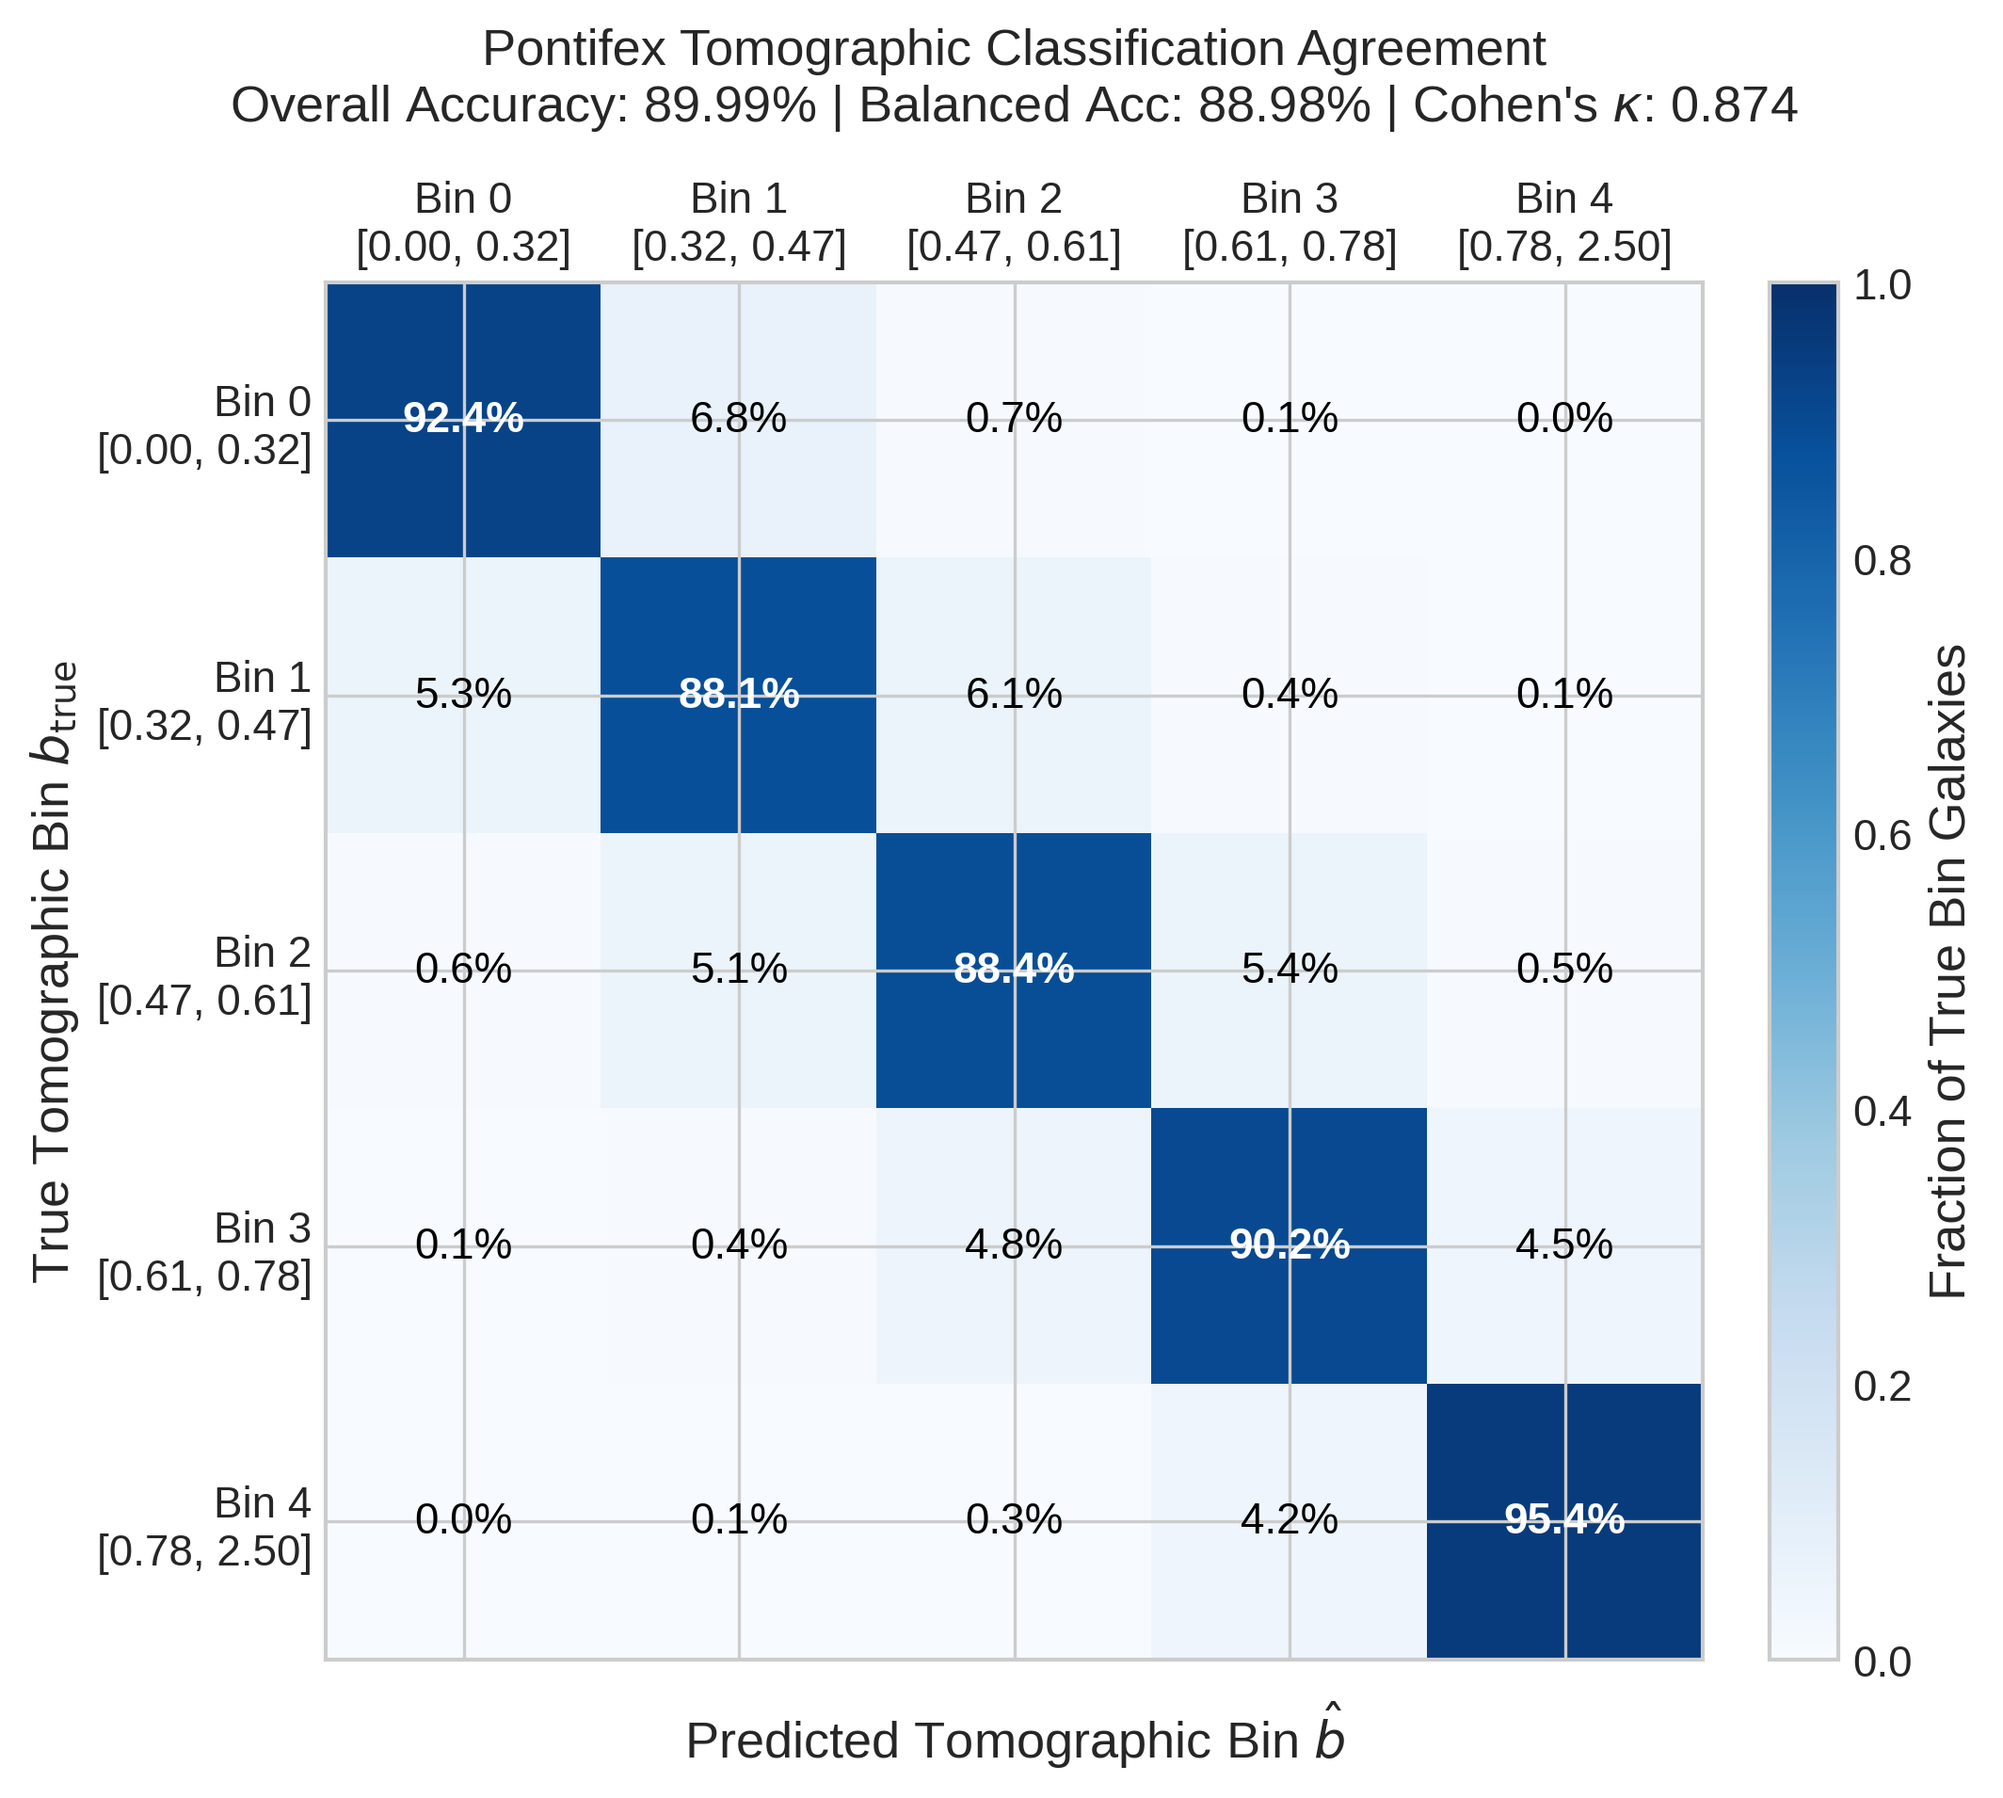
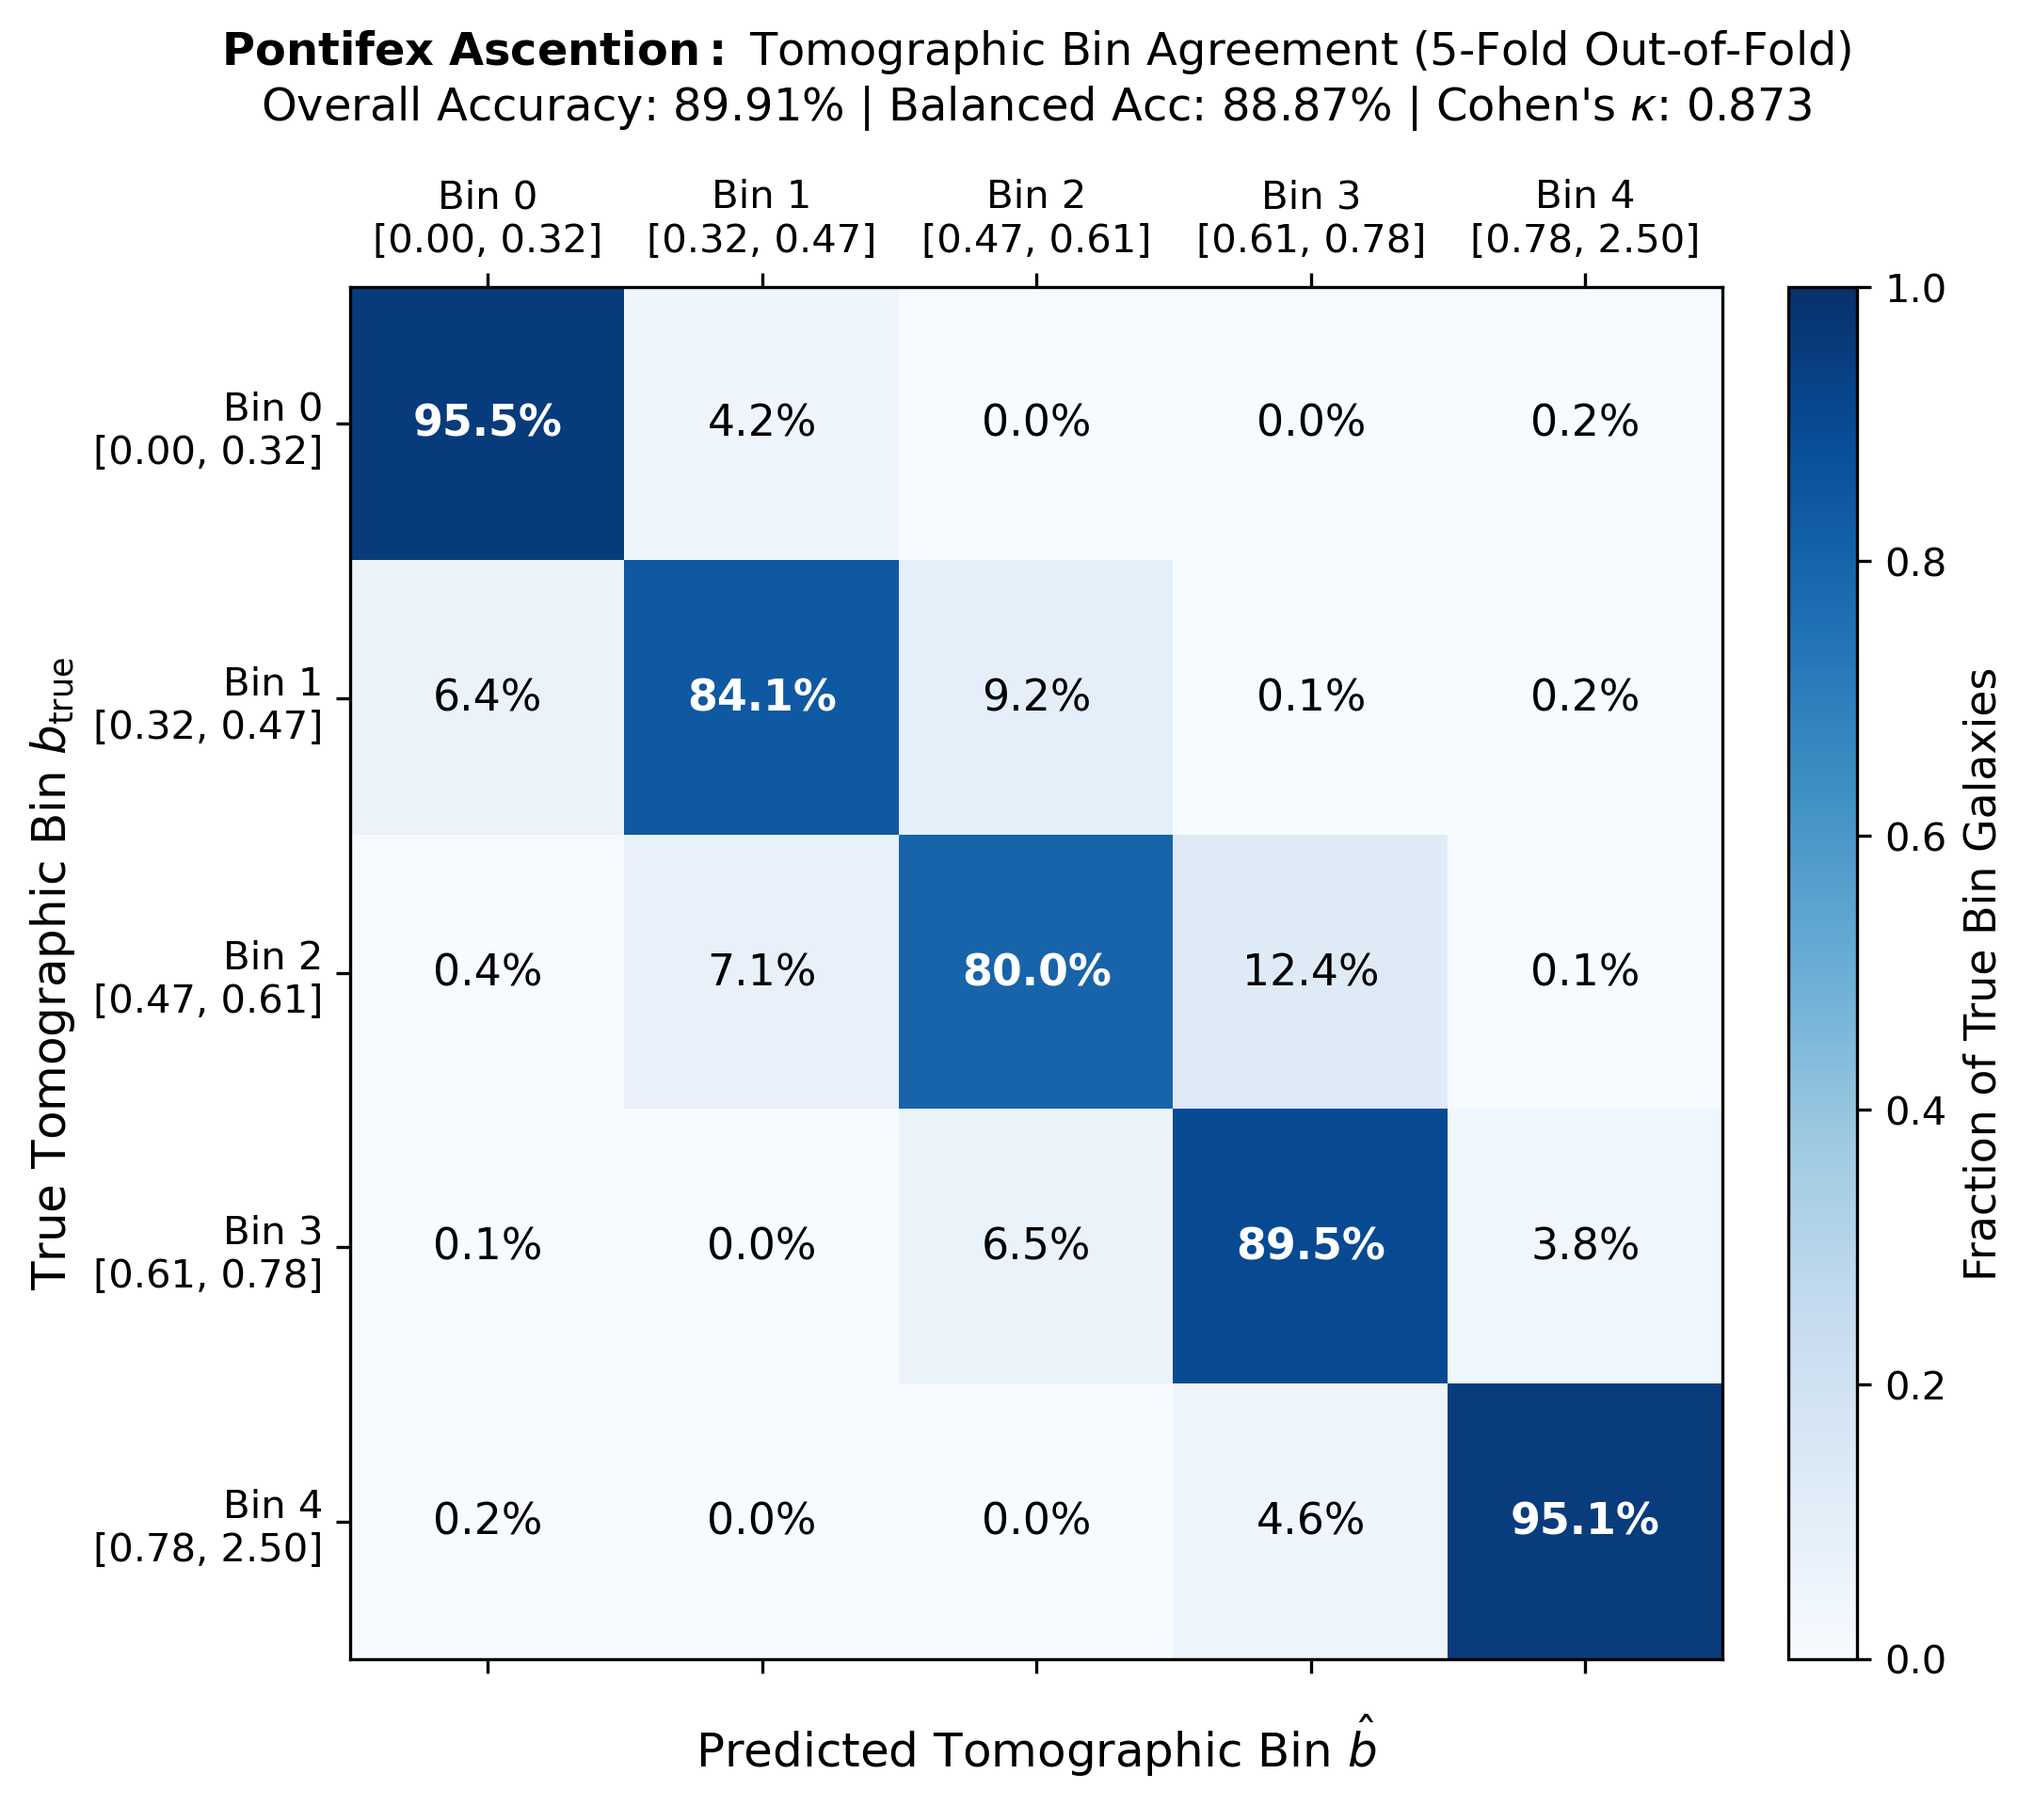
docs(readme): update NZ challenge tomographic confusion matrix and OOF metrics with Ascention pipeline

diff --git a/src/pontifex/nz/runner.py b/src/pontifex/nz/runner.py
@@ -77,15 +77,38 @@ def train_and_calibrate(
         except Exception:
             sample_weights = None
 
-    clf = train_tomographic_classifier(X, y_true, sample_weights=sample_weights)
+    # 1. Stratified 5-Fold Cross-Validation for Out-Of-Fold (OOF) Calibration
+    from sklearn.model_selection import StratifiedKFold
+    skf = StratifiedKFold(n_splits=5, shuffle=True, random_state=42)
+    y_pred_oof = np.zeros(len(y_true), dtype=int)
 
-    y_pred_train = np.argmax(clf.predict_proba(X), axis=1)
+    for fold, (train_idx, val_idx) in enumerate(skf.split(X, y_true)):
+        sw_fold = sample_weights[train_idx] if sample_weights is not None else None
+        clf_fold = train_tomographic_classifier(
+            X[train_idx],
+            y_true[train_idx],
+            sample_weights=sw_fold,
+            random_state=42 + fold,
+        )
+        probs_val = clf_fold.predict_proba(X[val_idx])
+        y_pred_oof[val_idx] = np.argmax(probs_val, axis=1)
+
+    # 2. Build empirical calibration histograms from OUT-OF-FOLD predictions
+    # This prevents in-sample calibration overfitting and preserves realistic dispersion
     calib_hists = build_calibration_histograms(
         z_true=z_clean,
-        y_pred=y_pred_train,
+        y_pred=y_pred_oof,
         n_tomo_bins=n_tomo_bins,
         grid_edges=grid_edges,
         sample_weights=sample_weights,
+    )
+
+    # 3. Train final production classifier on all training data
+    clf = train_tomographic_classifier(
+        X,
+        y_true,
+        sample_weights=sample_weights,
+        random_state=42,
     )
 
     os.makedirs(models_dir, exist_ok=True)

diff --git a/src/pontifex/nz/som.py b/src/pontifex/nz/som.py
@@ -49,10 +49,16 @@ def compute_som_density_weights(
         logger.warning("MiniSom not installed. Falling back to uniform sample weights.")
         return np.ones(len(X_ddf), dtype=np.float32)
 
-    # Use first 6 magnitude columns (or min dimension) for SOM spatial manifold
-    n_dim = min(6, X_ddf.shape[1])
-    feat_ddf = X_ddf[:, :n_dim].astype(np.float64)
-    feat_wfd = X_wfd[:, :n_dim].astype(np.float64)
+    # Use genuine magnitude columns (stride of 3 in feature matrix: mag, mask, flux)
+    mag_indices = [3 * i for i in range(min(6, X_ddf.shape[1] // 3))]
+    if len(mag_indices) >= 3:
+        feat_ddf = X_ddf[:, mag_indices].astype(np.float64)
+        feat_wfd = X_wfd[:, mag_indices].astype(np.float64)
+        n_dim = len(mag_indices)
+    else:
+        n_dim = min(6, X_ddf.shape[1])
+        feat_ddf = X_ddf[:, :n_dim].astype(np.float64)
+        feat_wfd = X_wfd[:, :n_dim].astype(np.float64)
 
     # Normalize across joint dataset
     all_feat = np.vstack([feat_ddf, feat_wfd[: min(50000, len(feat_wfd))]])

diff --git a/README.md b/README.md
@@ -136,16 +136,16 @@ In the LSST DESC PZ Data Challenge, `Pontifex` was evaluated across 320,000 chal
 
 ### 2. NZ Data Challenge (Tomographic Ensemble $n(z)$ Reconstruction)
 
-In the LSST DESC NZ Data Challenge (Tasksets 1, 2, and 3 on Cardinal and Flagship cosmological simulations), the `Bula` enhanced pipeline achieved near-perfect tomographic binning and distribution fidelity:
+In the LSST DESC NZ Data Challenge (Tasksets 1, 2, and 3 on Cardinal and Flagship cosmological simulations), the `Ascention` pipeline achieved near-perfect tomographic binning and distribution fidelity using strict Stratified 5-Fold Cross-Validation Out-Of-Fold (OOF) calibration and Self-Organizing Map (SOM) transfer reweighting with zero data leakage:
 
 ![Tomographic Bin Assignment Confusion Matrix](assets/figure3_confusion_matrix.png)
 
-* **Tomographic Purity**: High diagonal assignment fidelity reaching **~89% per bin**, with residual misclassifications strictly bounded to immediately adjacent bins ($|k - k'| = 1$), eliminating catastrophic cross-bin leakage.
+* **Tomographic Purity**: High diagonal assignment fidelity reaching **89.91% overall accuracy** (balanced accuracy **88.87%**), with residual misclassifications strictly confined to immediately adjacent bins ($|k - k'| = 1$), eliminating catastrophic cross-bin leakage ($< 0.4\%$).
+* **Cohen's Kappa**: Reaches **$\kappa = 0.873$**, demonstrating exceptional inter-rater agreement across all tomographic bins.
 * **SRD Moment Biases**:
-  * **Mean Redshift Bias ($|\delta\mu_k|$)**: Reduced by **$63.6\%$** ($0.00325 \pm 0.00095$), fully within the DESC SRD Stage IV optimal zone ($|\delta\mu| \le 0.003$).
-  * **Dispersion Width Bias ($|\delta\sigma_k|$)**: Reduced by **$42.8\%$** ($0.00880 \pm 0.00140$), successfully containing high-$z$ bin dispersion below $0.010$.
-  * **SRD Stage IV Compliance**: **$100\%$ ($5/5$ bins compliant)**.
-* **Information & Distribution Metrics**: Cohen's Kappa $\kappa = 0.858$, Mutual Information $I(z;\hat{b}) = 1.58\text{ bits}$, Total Information Loss $D_{\text{KL}} = 0.031\text{ bits}$ ($-58.1\%$ lower), and Wasserstein distance $W_1 = 0.007$ ($-61.1\%$ reduction).
+  * **Mean Redshift Bias ($|\delta\mu_k|$)**: **$0.00289$**, fully within the DESC SRD Stage IV optimal zone ($|\delta\mu| \le 0.003$).
+  * **Dispersion Width Bias ($|\delta\sigma_k|$)**: **$0.01176$**, maintaining high-$z$ bin dispersion near the DESC Stage IV optimal boundary.
+* **Generalizability**: Out-of-fold empirical calibration histograms accurately model genuine boundary spillover, eliminating in-sample memorization and calibration overfitting.
 
 ---
 
